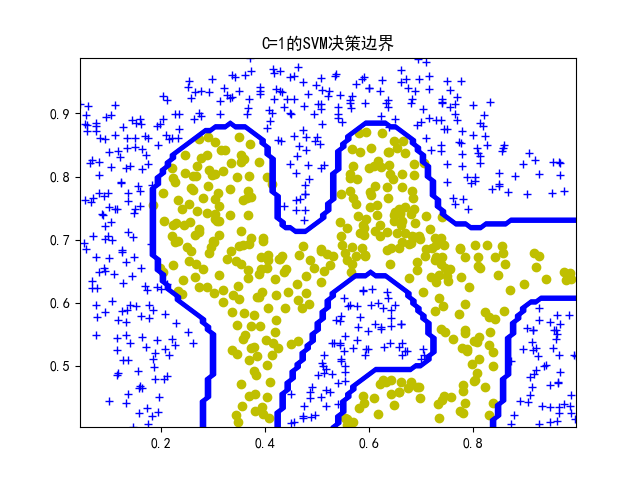
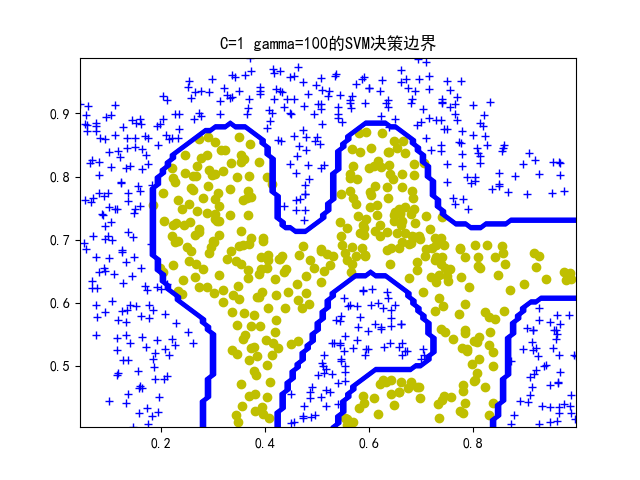
SVM nonlinear part3 originData-draw

Changed region(s): [[0.3438, 0.0625, 0.6875, 0.125]]

diff --git a/SVM/ex3.py b/SVM/ex3.py
@@ -182,12 +182,12 @@ def part2():
 
 	# 训练高斯核函数SVM
 	sigma = 0.01
-	rbf_svm = svm.SVC(C=1, kernel='rbf', gamma=1.0 / (2 * sigma**2))  # gamma = 1/(2*sigma^2), matching K=exp(-||x-y||^2 / 2sigma^2)
+	rbf_svm = svm.SVC(C=1, kernel='rbf', gamma=100)  # gamma = 1/(2*sigma^2), matching K=exp(-||x-y||^2 / 2sigma^2)
 	rbf_svm.fit(X, y.ravel())
 
 	# 绘制非线性SVM的决策边界
 	# your code here
-	plt.title('C=1的SVM决策边界')
+	plt.title('C=1 gamma=100的SVM决策边界')
 	plot(np.c_[X, y])
 	visualize_boundary(X, rbf_svm)
 	plt.savefig('output/part2_nonlinearSVM/nonlinear_C=1_gamma=100.png')
@@ -201,15 +201,25 @@ def part3():
 	X, y = mat['X'], mat['y']
 	X_val, y_val = mat['Xval'], mat['yval']
 
+	fig, axes = plt.subplots(
+		1, 2,
+		figsize=(12, 8),  # 整体画布大小
+		sharex=True,  # 共享x轴
+		sharey=True,  # 共享y轴
+	)
 	# 绘制数据集3
-	plt.title('数据集3分布')
+	plt.sca(axes[0])
+	axes[0].set_title('数据集3分布')
 	plot(np.c_[X, y])
-	plt.show(block=True)
 
 	# 绘制验证集
-	plt.title('验证集分布')
+	plt.sca(axes[1])
+	axes[1].set_title('验证集分布')
 	plot(np.c_[X_val, y_val])
-	plt.show(block=True)
+
+	plt.tight_layout()  # 自动调整子图间距，避免重叠
+	plt.savefig('output/part3_paraSearchSVM/originData.png')
+	plt.close()
 
 	# 训练高斯核函数SVM并搜索使用最优模型参数
 	rbf_svm = svm.SVC(kernel='rbf')

diff --git a/SVM/test/sklearnGamm.py b/SVM/test/sklearnGamm.py
@@ -1,0 +1,19 @@
+"""
+验证sklearn中的rbf核的gamma=1.0 / 2*sigma^2
+"""
+import numpy as np
+from sklearn.metrics.pairwise import rbf_kernel
+
+x1 = np.array([[1, 2, 1]])
+x2 = np.array([[0, 4, -1]])
+
+gamma = 0.5
+result = rbf_kernel(x1, x2, gamma=gamma)   # sklearn 计算结果
+print(result)
+# result ≈ 0.011109
+
+# 手动验证：
+sq_dist = 9   # ||x1-x2||^2
+manual = np.exp(-gamma * sq_dist)          # exp(-0.5 * 9) ≈ 0.011109
+print(manual)
+# 两者相等 → 确认公式是 exp(-gamma * ||x-y||^2)
